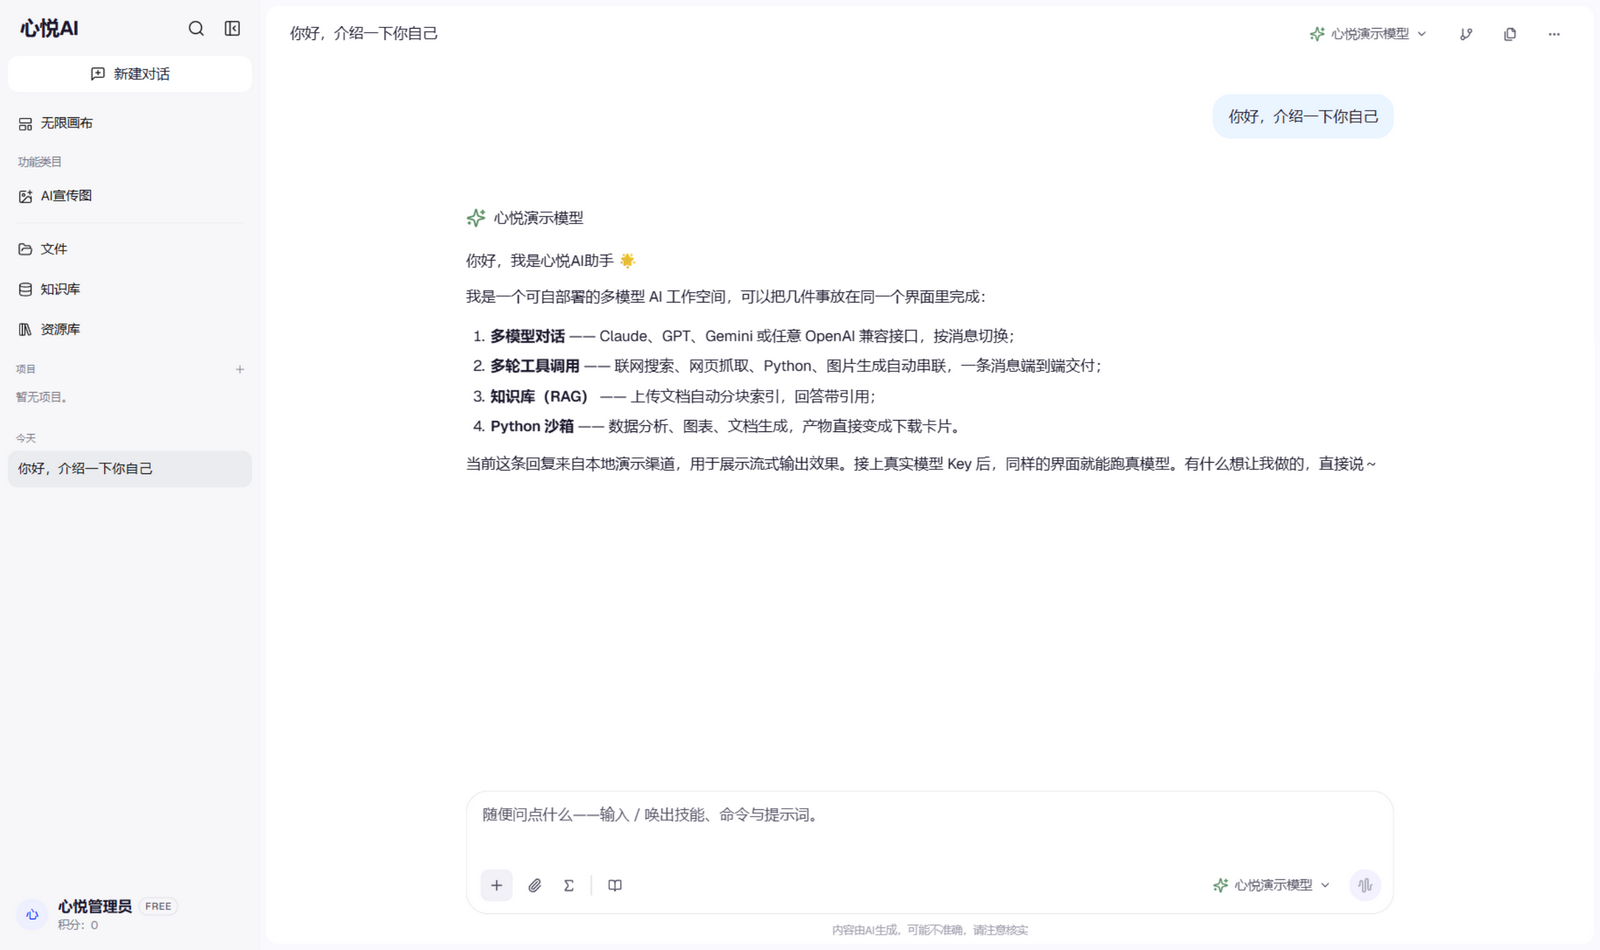
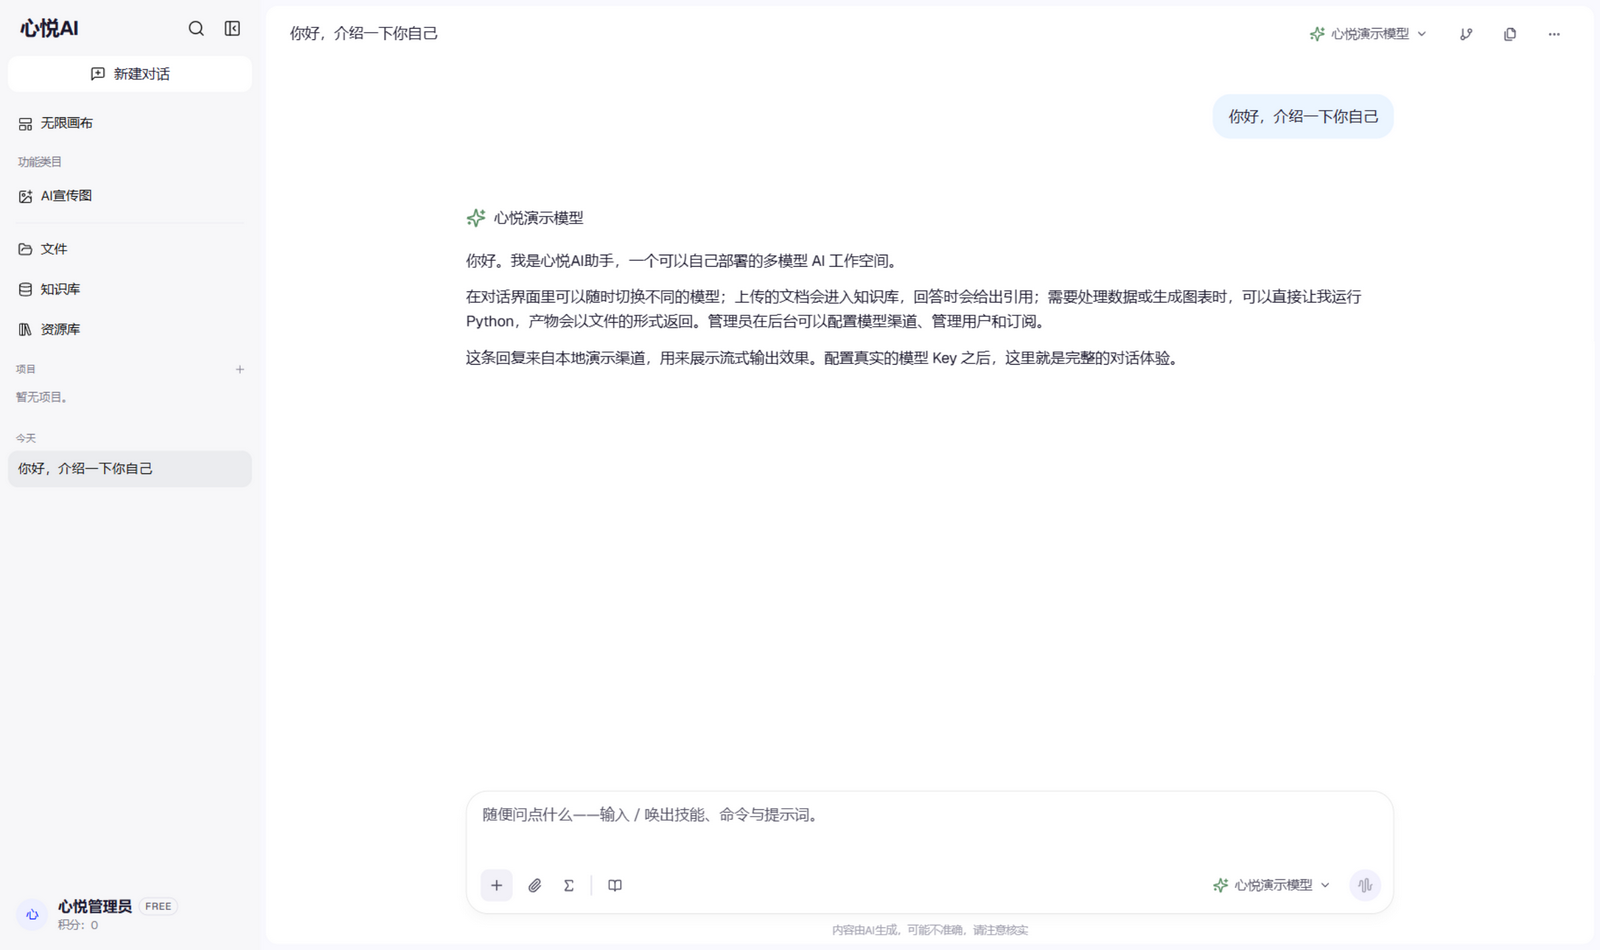
docs: 截图与功能清单去掉装饰性表情，改为平实内容

Changed region(s): [[0.2812, 0.2442, 0.8438, 0.5189]]

diff --git a/README.en.md b/README.en.md
@@ -23,15 +23,13 @@
 
 ## Features
 
-| | Feature | What you get |
-|---|---|---|
-| 💬 | **Multi-model chat** | Claude, GPT, Gemini, or any OpenAI-compatible endpoint in one UI; channels and keys are managed in the admin console, switch models per message |
-| 🛠 | **Multi-turn tool calling** | Web search, page fetch, Python, image generation, memory, and skills chained automatically (48 calls per turn by default) |
-| 📚 | **Knowledge base (RAG)** | PDF / Office / Markdown / spreadsheets / images; structure-aware chunking, hybrid retrieval when a vector DB is configured, automatic full-text fallback otherwise, answers with citations |
-| 🐍 | **Python sandbox (optional)** | One isolated workspace per conversation with pandas, matplotlib, python-pptx preinstalled; charts and documents become download cards; safe-mode arithmetic fallback when no sandbox is deployed |
-| 👥 | **Team workspaces** | Shared conversations, files, and knowledge bases with invite links and member attribution |
-| 💳 | **Subscriptions & quotas** | User tiers, daily limits, credits and redemption codes, optional payment gateways |
-| 🛡 | **Admin console** | Channels, models, tools, users, knowledge bases, subscriptions, backups, and system settings in one place |
+- **Multi-model chat**: Claude, GPT, Gemini, or any OpenAI-compatible endpoint in one UI; channels and keys are managed in the admin console, switch models per message.
+- **Multi-turn tool calling**: Web search, page fetch, Python, image generation, memory, and skills chained automatically (48 calls per turn by default).
+- **Knowledge base (RAG)**: PDF, Office, Markdown, spreadsheets, and images; structure-aware chunking, hybrid retrieval when a vector DB is configured, automatic full-text fallback otherwise, answers with citations.
+- **Python sandbox (optional)**: One isolated workspace per conversation with pandas, matplotlib, python-pptx preinstalled; charts and documents become download cards; safe-mode arithmetic fallback when no sandbox is deployed.
+- **Team workspaces**: Shared conversations, files, and knowledge bases with invite links and member attribution.
+- **Subscriptions & quotas**: User tiers, daily limits, credits and redemption codes, optional payment gateways.
+- **Admin console**: Channels, models, tools, users, knowledge bases, subscriptions, backups, and system settings in one place.
 
 ## Quick Start (single container)
 

diff --git a/README.md b/README.md
@@ -23,15 +23,13 @@
 
 ## 功能一览
 
-| | 能力 | 说明 |
-|---|---|---|
-| 💬 | **多模型对话** | 同一界面使用 Claude、GPT、Gemini 或任意 OpenAI 兼容接口；渠道与密钥统一在管理后台配置，可按消息切换模型 |
-| 🛠 | **多轮工具调用** | 网络搜索、网页抓取、Python、图片生成、记忆、技能模板自动串联（默认单轮合计 48 次），一条消息端到端完成任务 |
-| 📚 | **知识库（RAG）** | 支持 PDF / Office / Markdown / 表格 / 图片，结构感知分块；配置向量库走混合检索，未配置自动回退全文注入，回答带引用 |
-| 🐍 | **Python 沙箱（可选）** | 每个对话一个隔离工作区，预装 pandas、matplotlib、python-pptx 等，产出的图表和文档自动显示为下载卡片；未部署沙箱时以算术安全模式兜底 |
-| 👥 | **团队空间** | 共享对话、文件与知识库，支持邀请链接、成员署名与空间管理 |
-| 💳 | **订阅与配额** | 用户层级、每日额度、积分与兑换码，可选支付结算 |
-| 🛡 | **管理后台** | 渠道、模型、工具、用户、知识库、订阅、备份与系统设置集中管理 |
+- **多模型对话**：同一界面使用 Claude、GPT、Gemini 或任意 OpenAI 兼容接口；渠道与密钥统一在管理后台配置，可按消息切换模型。
+- **多轮工具调用**：网络搜索、网页抓取、Python、图片生成、记忆、技能模板自动串联（默认单轮合计 48 次），一条消息端到端完成任务。
+- **知识库（RAG）**：支持 PDF、Office、Markdown、表格、图片，结构感知分块；配置向量库走混合检索，未配置自动回退全文注入，回答带引用。
+- **Python 沙箱（可选）**：每个对话一个隔离工作区，预装 pandas、matplotlib、python-pptx，产出的图表和文档自动显示为下载卡片；未部署沙箱时以算术安全模式兜底。
+- **团队空间**：共享对话、文件与知识库，支持邀请链接、成员署名与空间管理。
+- **订阅与配额**：用户层级、每日额度、积分与兑换码，可选支付结算。
+- **管理后台**：渠道、模型、工具、用户、知识库、订阅、备份与系统设置集中管理。
 
 ## 快速开始（单容器）
 
